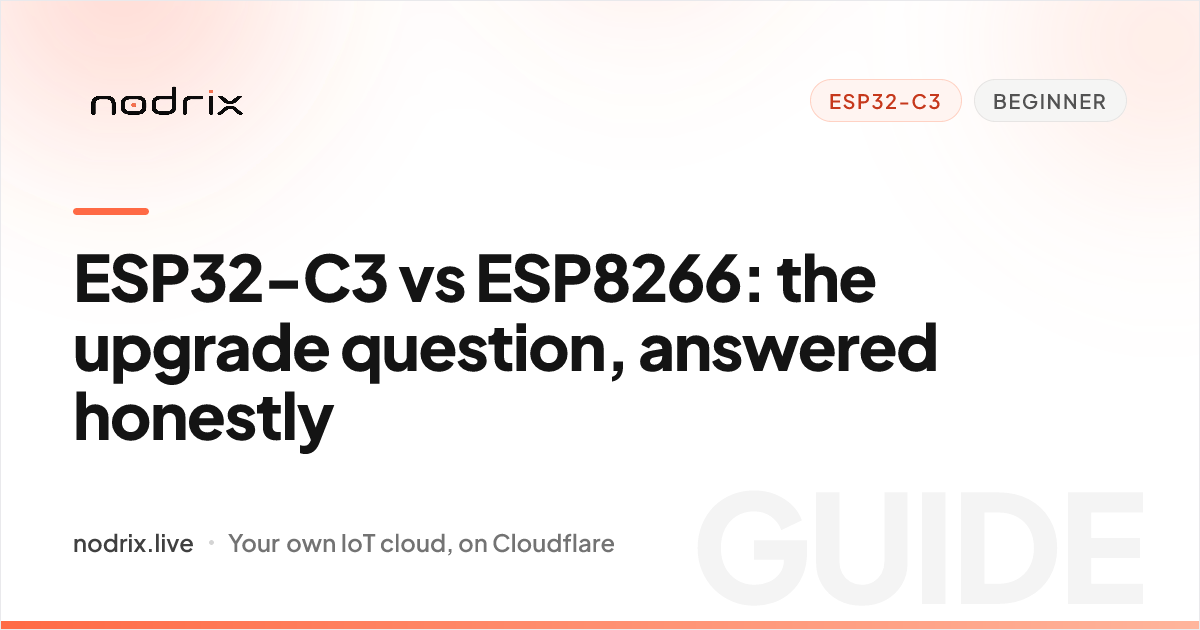
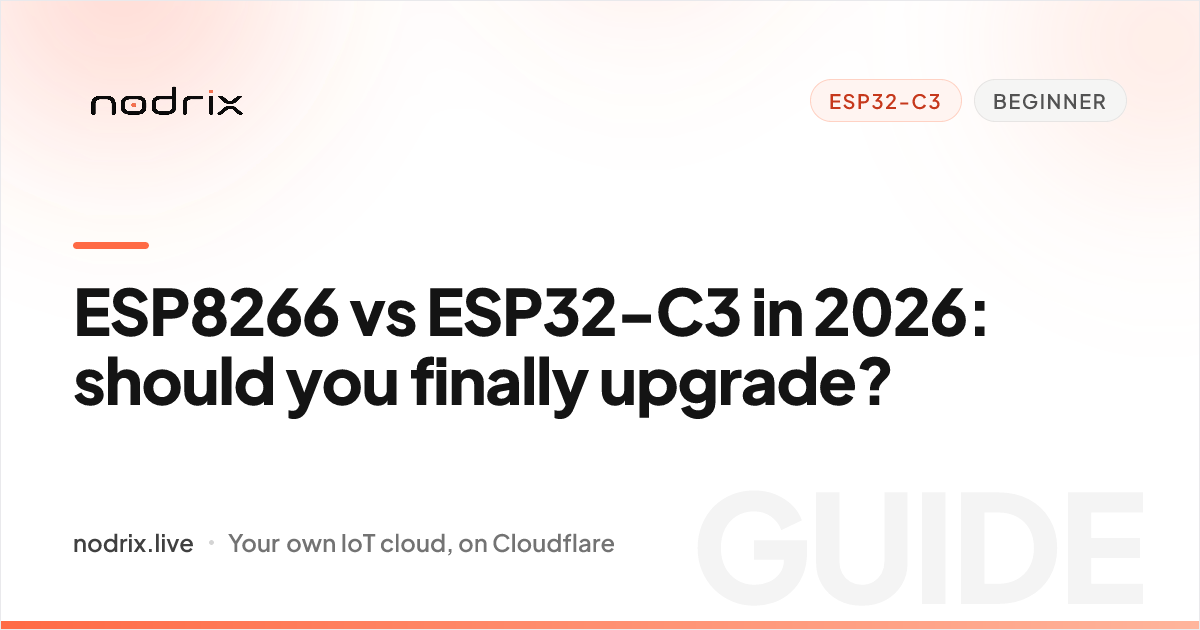
feat(guides): update titles and publication dates for ESP32 and Raspberry Pi Pico comparisons

Changed region(s): [[0.0617, 0.3317, 0.8325, 0.7238]]

diff --git a/promo/src/content/guides/raspberry-pi-pico-2-w-vs-esp32.md b/promo/src/content/guides/raspberry-pi-pico-2-w-vs-esp32.md
@@ -1,11 +1,11 @@
 ---
-title: "Raspberry Pi Pico 2 W vs ESP32: which for a cloud IoT project?"
+title: "Raspberry Pi Pico 2 W vs ESP32: an honest 2026 comparison"
 description: "An honest Pico 2 W vs ESP32 comparison for connected projects — where the Pico 2 W's newer silicon and clean MicroPython win, where the ESP32's wireless maturity and huge ecosystem win, and which to pick when the project reports to a cloud dashboard."
 category: comparison
 board: Raspberry Pi Pico 2 W
 difficulty: beginner
 datePublished: 2026-07-18
-dateUpdated: 2026-07-18
+dateUpdated: 2026-08-20
 faqs:
   - q: "Is the Raspberry Pi Pico 2 W better than an ESP32?"
     a: "Neither is strictly better — they optimise for different things. The Pico 2 W has newer silicon (a dual-architecture RP2350: Arm plus RISC-V cores), excellent MicroPython support, and the Raspberry Pi documentation pedigree. The ESP32 has more mature Wi-Fi, a vastly larger library and example ecosystem, and years of proven cloud-IoT deployments. For a first wireless project the ESP32's ecosystem depth usually wins; for a project that values clean MicroPython and current silicon, the Pico 2 W is compelling."

diff --git a/promo/src/content/guides/esp32-c3-vs-esp8266.md b/promo/src/content/guides/esp32-c3-vs-esp8266.md
@@ -1,11 +1,11 @@
 ---
-title: "ESP32-C3 vs ESP8266: the upgrade question, answered honestly"
+title: "ESP8266 vs ESP32-C3 in 2026: should you finally upgrade?"
 description: "ESP32 vs ESP8266 in 2026, at the budget end: the ESP32-C3 is the 8266's designated successor at nearly the same price, with the RAM headroom that makes TLS comfortable instead of a squeeze. When to switch, when the old board is still the right call, where the wider ESP32 family fits, and what changes in firmware."
 category: hardware
 board: ESP32-C3
 difficulty: beginner
 datePublished: 2026-07-10
-dateUpdated: 2026-07-10
+dateUpdated: 2026-08-20
 faqs:
   - q: "Is the ESP8266 obsolete in 2026?"
     a: "No — dated, not dead. Espressif's longevity commitment keeps the ESP8266 series in production toward the end of the decade, the ecosystem still receives real investment, and boards cost under two dollars in bulk. For a Wi-Fi-only sensor with modest TLS needs it remains perfectly serviceable. Obsolete is the wrong frame; 'no longer what you'd design in' is the right one."
